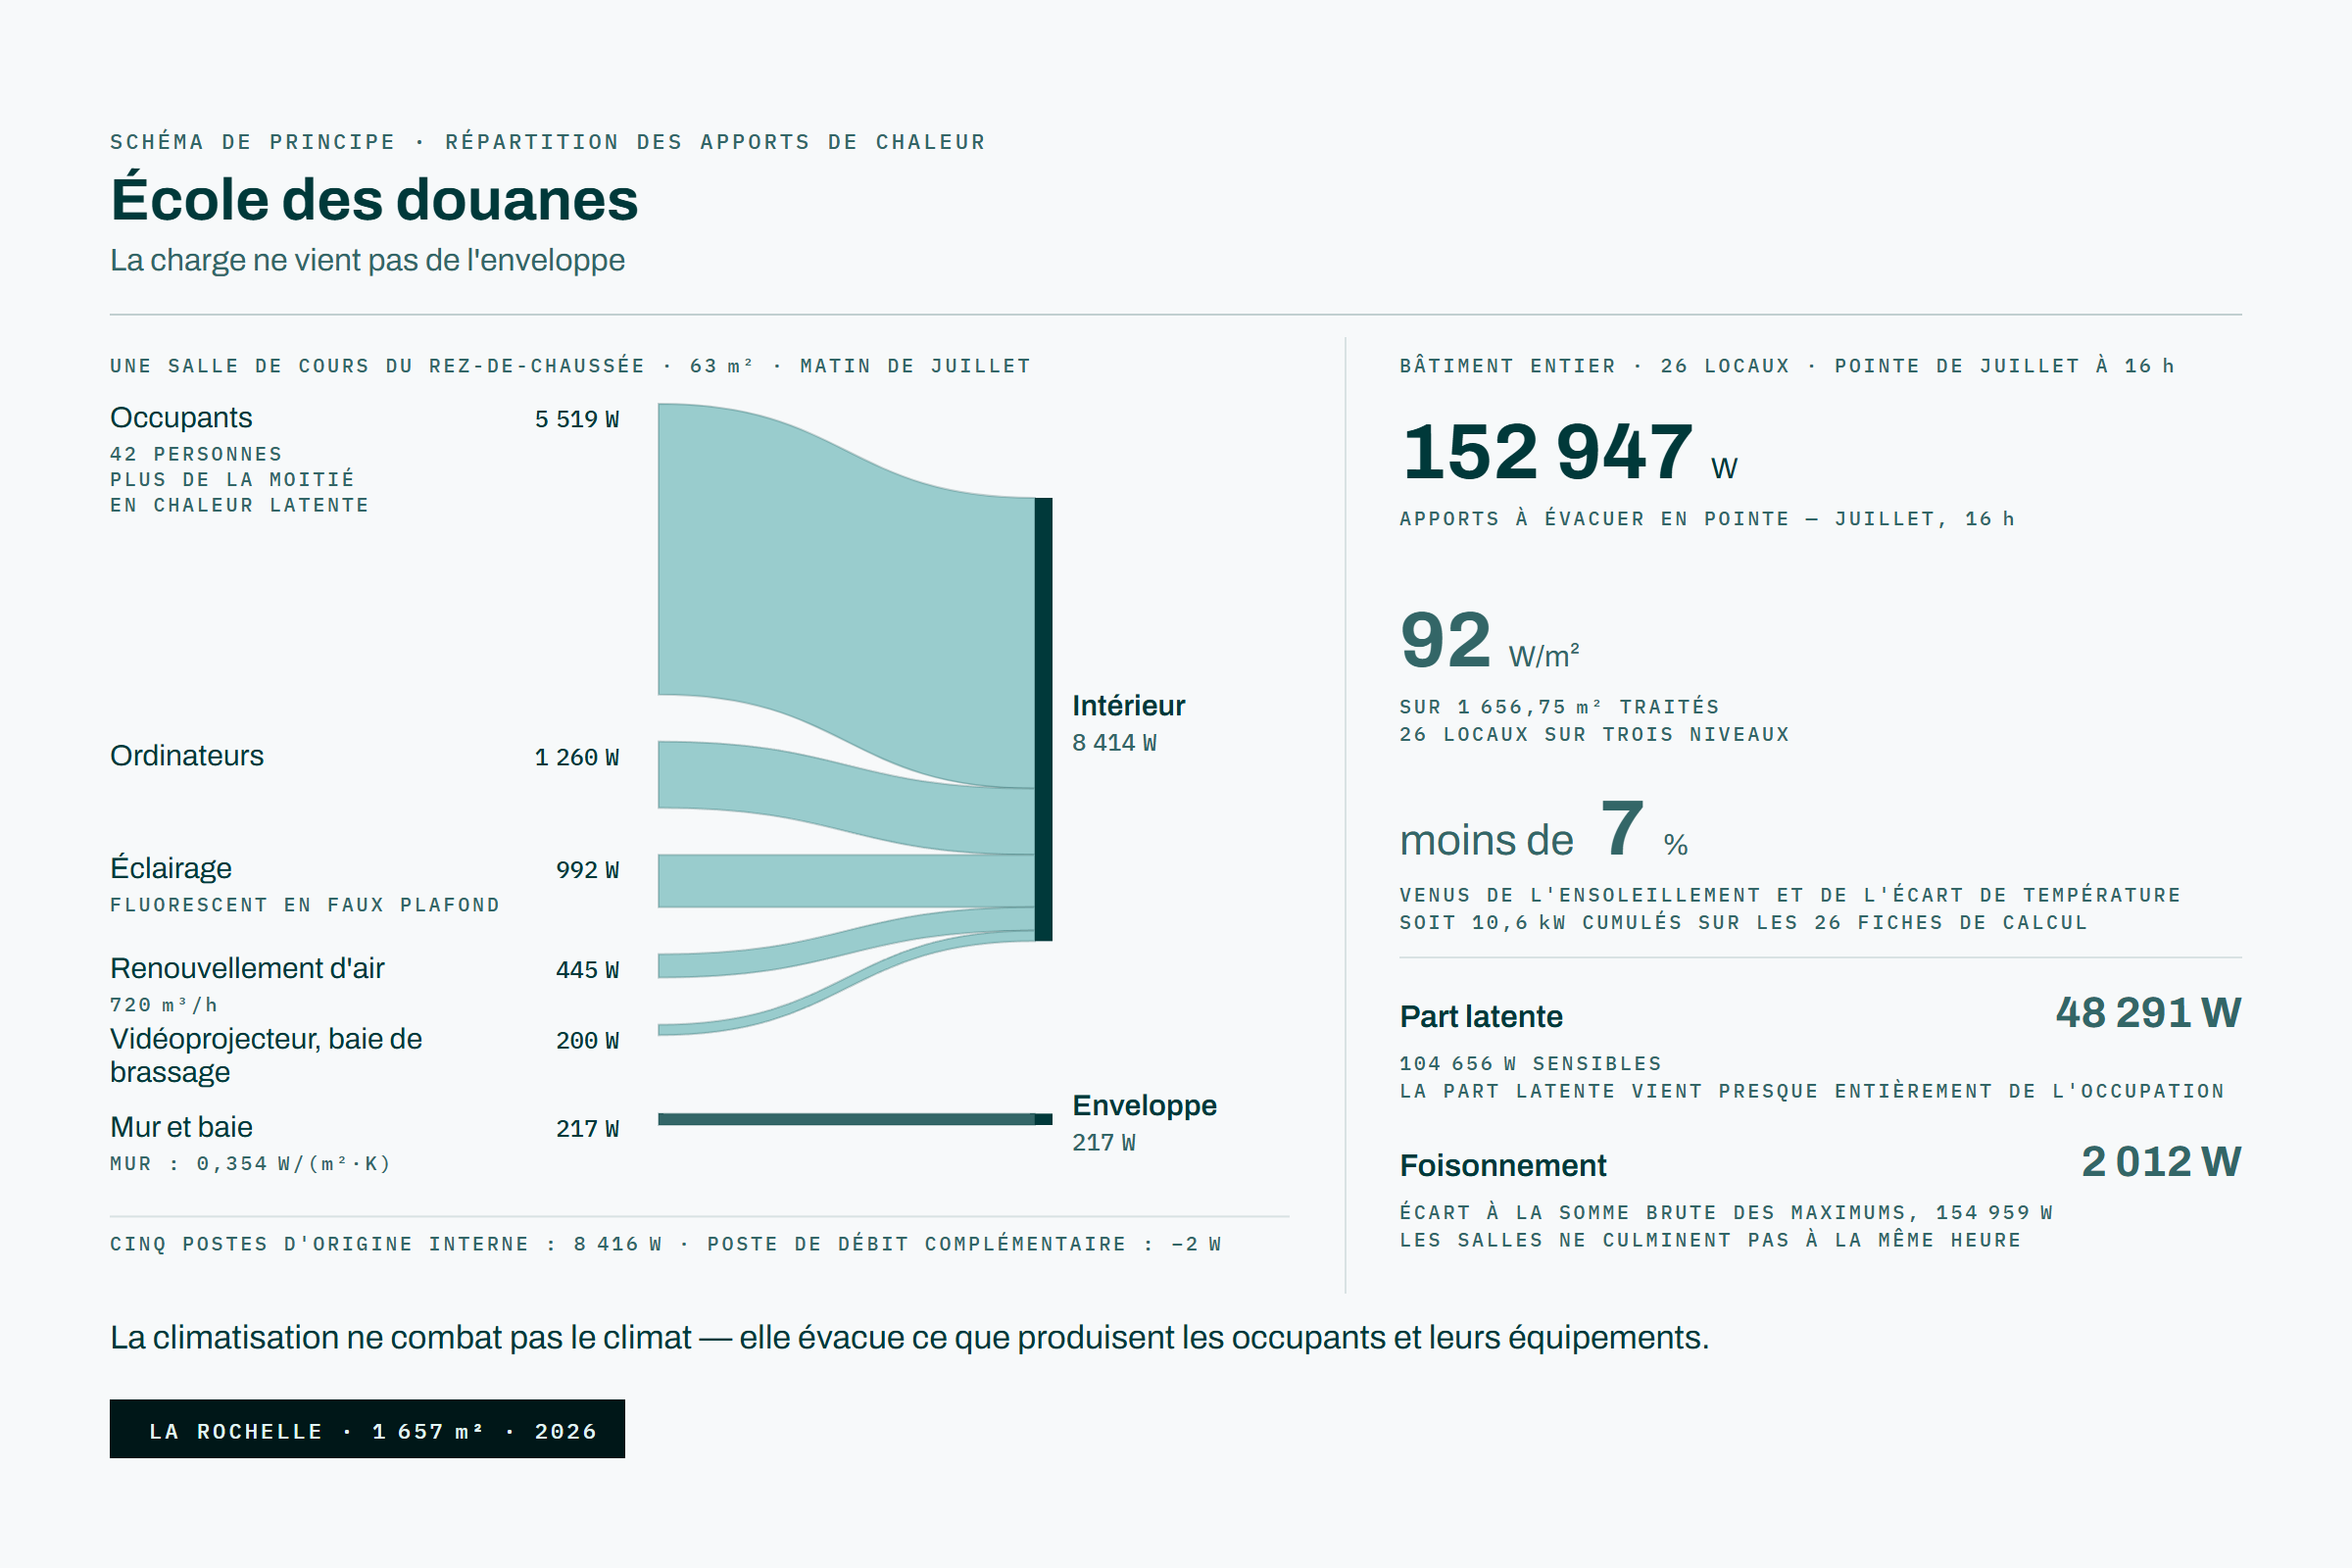
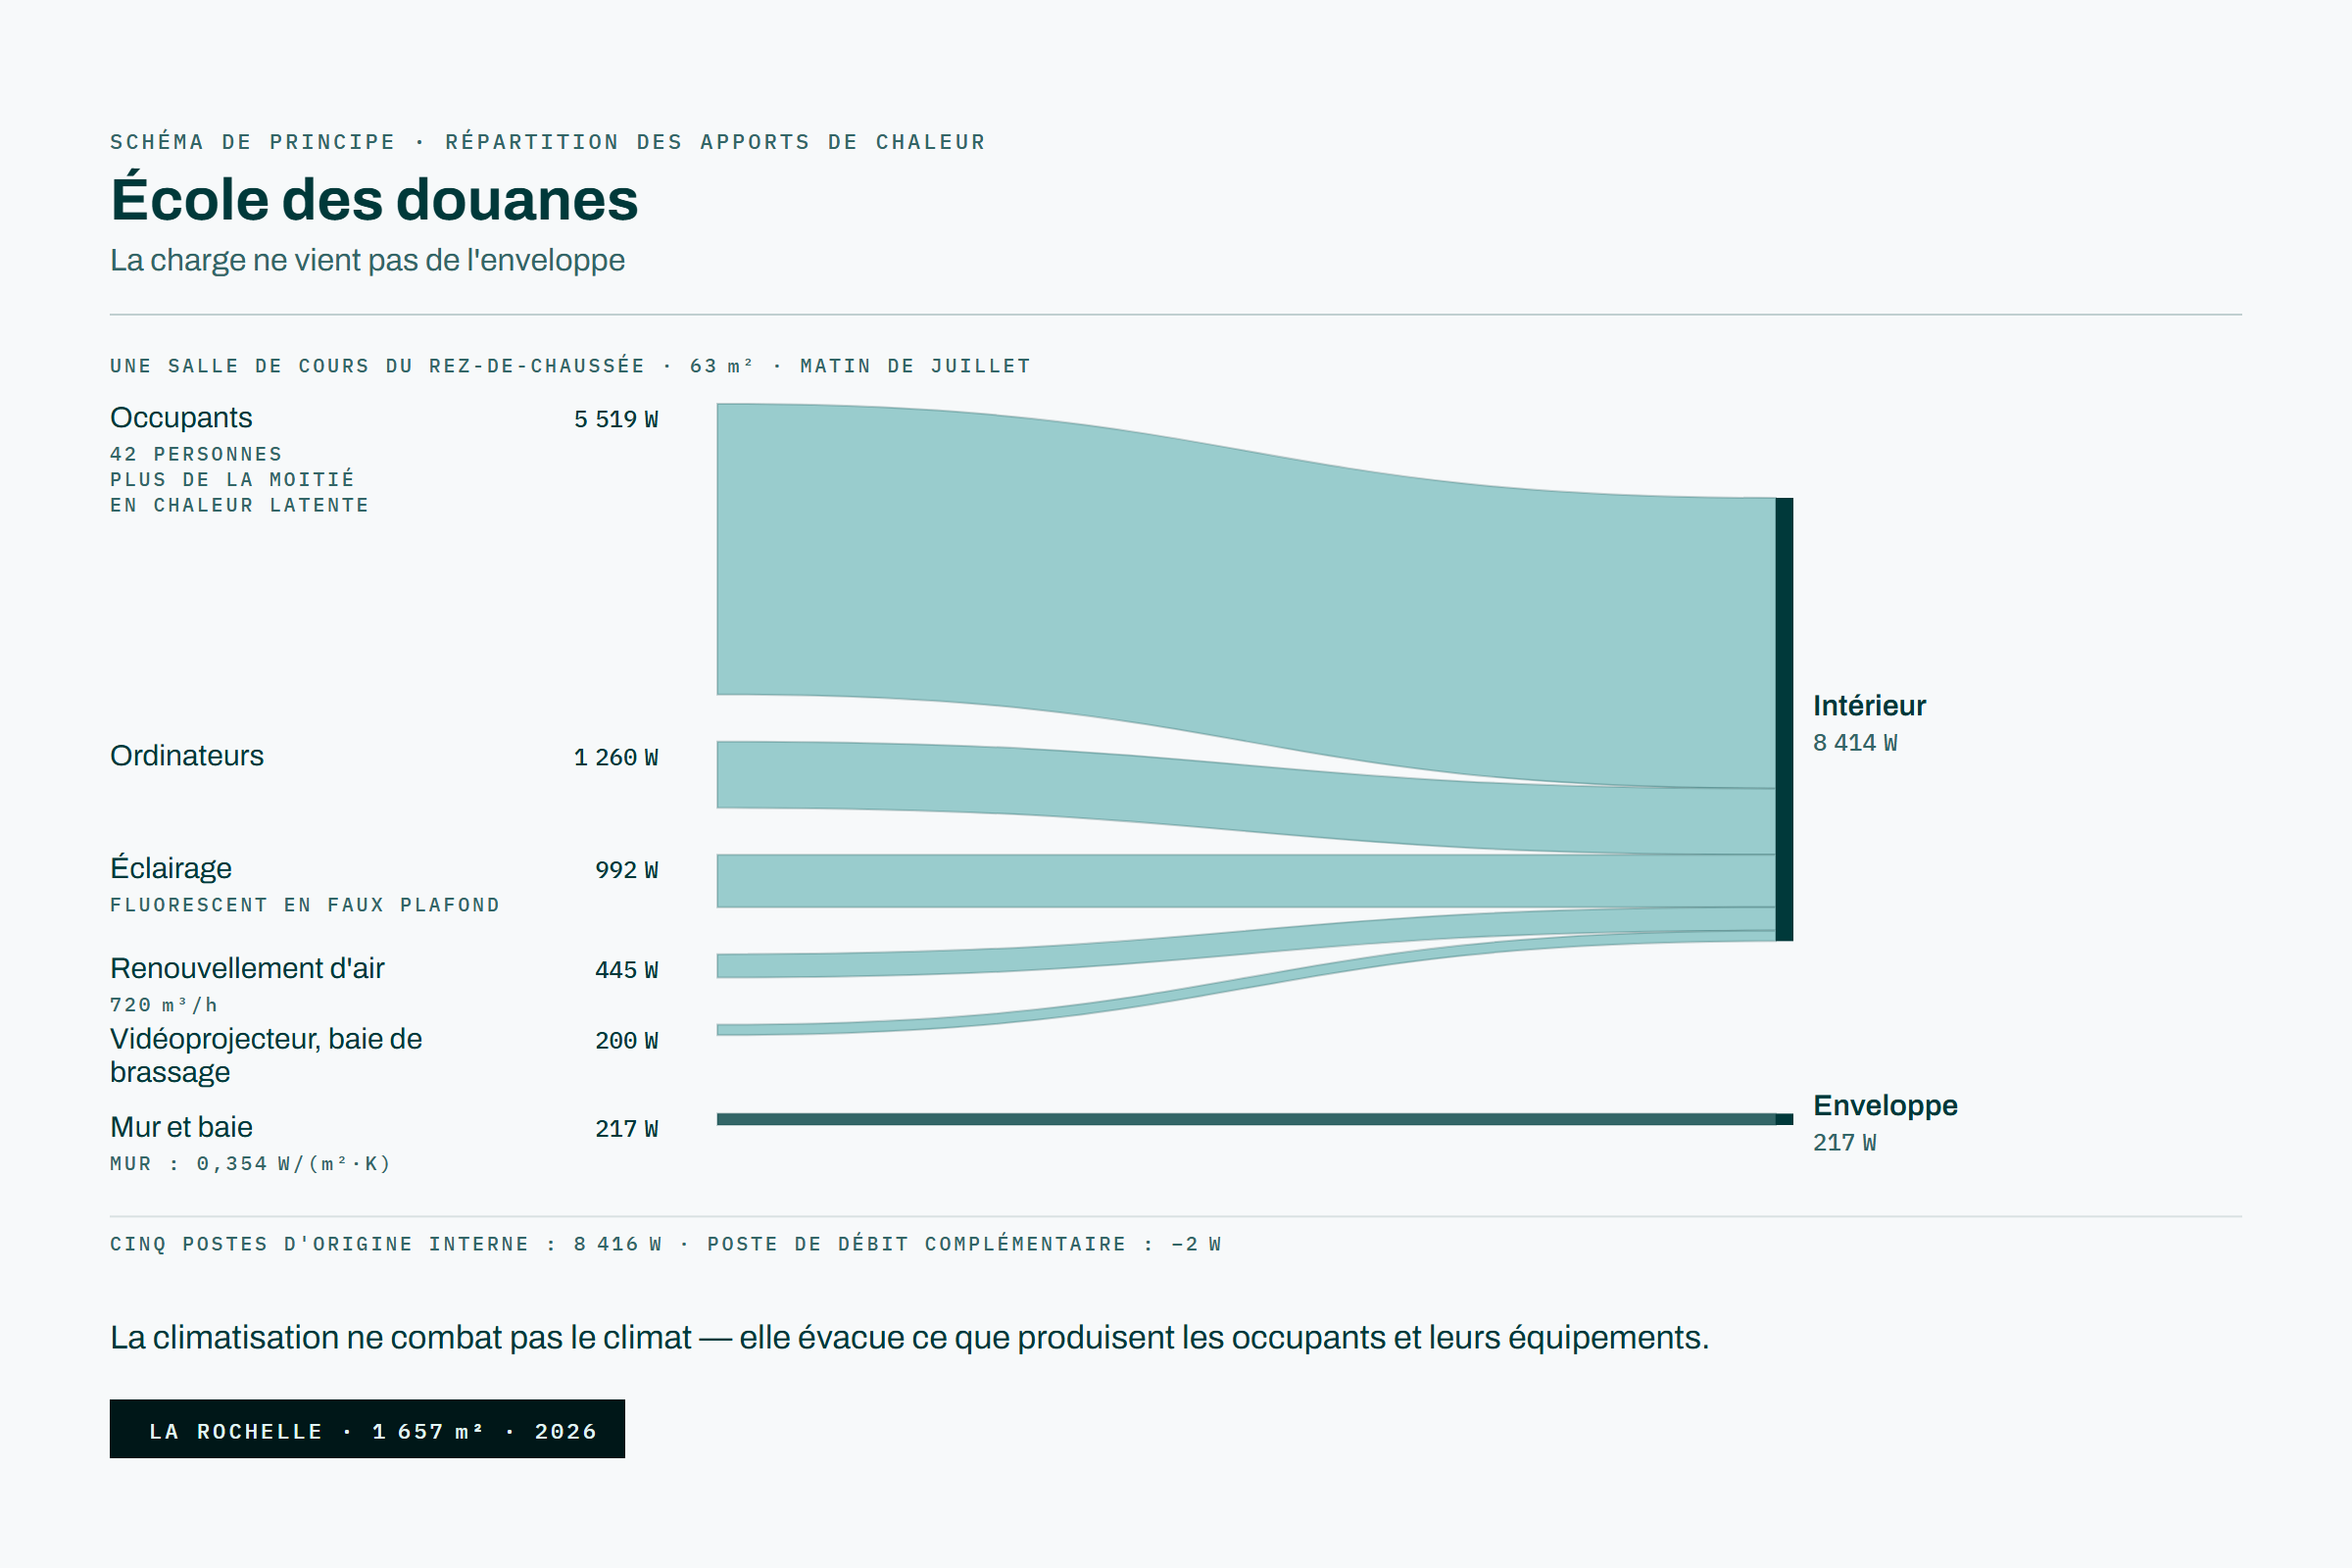
feat(references): réaligne la planche 01 sur la révision 4
La colonne de relevé de l'École des douanes répétait la fiche — le
défaut exact que FT2E a refusé sur la planche 02. Elle est retirée ;
le Sankey, qui est le mécanisme, s'étend à la largeur utile entière
(flux de 366 à 906 px, nœuds étiquetés jusqu'à 1144). L'extraction est
amendée : relevé vide, arbitrages sur les deux périmètres et les deux
moments révisés — la planche ne porte plus que la salle de cours, les
chiffres du bâtiment restent à la fiche. Les deux planches publiées
appliquent désormais le principe « la planche est un dessin ».

diff --git a/scripts/planches/sankey-energie.py b/scripts/planches/sankey-energie.py
@@ -35,17 +35,15 @@ from pathlib import Path
 NN = " "   # espace fine insécable — texte courant et mono
 INS = " "  # espace insécable normale — relevés en grand corps (cf. § Mesures)
 
-# ── Gabarit (protocole rév. 2) ────────────────────────────────────────────────
+# ── Gabarit (protocole rév. 4) ────────────────────────────────────────────────
+# La révision 4 supprime la partition 7/5 et la colonne de relevé : la planche
+# schématise la solution — le flux occupe la largeur utile entière, et les
+# chiffres que la fiche porte déjà ne montent pas sur le dessin.
 W, H = 1200, 800
 MARGE = 56
 MODULE = 28
 UTILE = W - 2 * MARGE                      # 1088
-GOUTTIERE = 56
-DESSIN_W = round((UTILE - GOUTTIERE) * 7 / 12)   # 602
-RELEVE_W = UTILE - GOUTTIERE - DESSIN_W          # 430
-DESSIN_X0, DESSIN_X1 = MARGE, MARGE + DESSIN_W
-RELEVE_X0, RELEVE_X1 = DESSIN_X1 + GOUTTIERE, W - MARGE
-SEPARATEUR_X = DESSIN_X1 + GOUTTIERE / 2
+DESSIN_X0 = MARGE
 
 # ── Gabarit de la VIGNETTE (protocole rév. 2.2) ───────────────────────────────
 # Une vignette n'est pas un recadrage de la planche : c'est une COMPOSITION
@@ -73,13 +71,13 @@ JETON = {
 SANS = '"Archivo Variable", Archivo, "Helvetica Neue", Arial, sans-serif'
 MONO = '"IBM Plex Mono", ui-monospace, monospace'
 
-# ── Colonnes de la zone de dessin ─────────────────────────────────────────────
+# ── Colonnes de la zone de schéma — pleine largeur depuis la révision 4 ──────
 LIB_X = DESSIN_X0                 # libellés + détails
-VAL_X = DESSIN_X0 + 260           # valeurs mono, alignées à droite
-BANDE_X0 = DESSIN_X0 + 280        # départ des bandes
-BANDE_X1 = DESSIN_X0 + 472        # arrivée des bandes
+VAL_X = DESSIN_X0 + 280           # valeurs mono, alignées à droite
+BANDE_X0 = DESSIN_X0 + 310        # départ des bandes (366)
+BANDE_X1 = DESSIN_X0 + 850        # arrivée des bandes (906) — le flux porte la planche
 NOEUD_W = 9
-NOEUD_LIB_X = BANDE_X1 + NOEUD_W + 10
+NOEUD_LIB_X = BANDE_X1 + NOEUD_W + 10   # 925 — étiquettes de nœud jusqu'à 1144
 
 # ── Rythme vertical ───────────────────────────────────────────────────────────
 Y_SURTITRE = 76
@@ -233,12 +231,11 @@ def composer(donnees, slug):
             "pivot", wdth=100))
     A(rect(MARGE, Y_FILET_TITRE, UTILE, 1, "filet-1"))
 
-    # ── En-têtes de périmètre — ils empêchent la planche de mentir ───────────
+    # ── En-tête de périmètre — il empêche la planche de mentir ───────────────
+    # (Depuis la révision 4, la planche ne porte qu'un périmètre : celui du
+    # schéma. Le relevé du bâtiment et son en-tête ont quitté le dessin.)
     A(texte(DESSIN_X0, Y_ENTETE, sk["entete"], "mono", 10, 500,
             "pivot", tracking=10 * 0.14))
-    A(texte(RELEVE_X0, Y_ENTETE, donnees["releve_entete"], "mono", 10, 500,
-            "pivot", tracking=10 * 0.14))
-    A(rect(SEPARATEUR_X, Y_FILET_TITRE + 12, 1, 488, "filet-3"))
 
     # ── Bandes ───────────────────────────────────────────────────────────────
     curseur = {c: n["y0"] for c, n in noeuds.items()}
@@ -281,38 +278,16 @@ def composer(donnees, slug):
         A(texte(NOEUD_LIB_X, yl + 16, f'{nd["n"]["valeur_affichee"]}{NN}{sk["unite"]}',
                 "mono", 12, 500, "pivot", tabulaire=True))
 
-    # ── Note de pied de la zone de dessin ────────────────────────────────────
+    # ── Note de pied de la zone de schéma ────────────────────────────────────
     y_note = max(bas_bandes, bas_libelles) + 36
-    A(rect(DESSIN_X0, y_note - 18, DESSIN_W, 1, "filet-3"))
+    A(rect(DESSIN_X0, y_note - 18, UTILE, 1, "filet-3"))
     A(texte(DESSIN_X0, y_note, sk["note_pied"], "mono", 10, 500,
             "pivot", tracking=10 * 0.14))
 
-    # ── Colonne de relevé ────────────────────────────────────────────────────
-    y = 244.0
-    for i, r in enumerate(donnees["releve"]):
-        couleur = "encre" if i == 0 else "pivot"
-        x = RELEVE_X0
-        if r.get("prefixe"):
-            A(texte(x, y, r["prefixe"], "sans", 22, 400, "pivot", wdth=100))
-            x += mesurer(r["prefixe"], 22, "sans-400") + 14
-        A(texte(x, y, r["valeur"], "sans", 40, 700, couleur, wdth=118,
-                tabulaire=True))
-        x += mesurer(r["valeur"], 40, "sans-700") + 8
-        A(texte(x, y, r["unite"], "sans", 15, 400, couleur, wdth=100))
-        for k, ligne in enumerate(r["legende"]):
-            A(texte(RELEVE_X0, y + 24 + k * 14, ligne, "mono", 10, 500,
-                    "pivot", tracking=10 * 0.14))
-        y += 96
-    A(rect(RELEVE_X0, y - 44, RELEVE_W, 1, "filet-3"))
-    y -= 8
-    for r in donnees["releve_secondaire"]:
-        A(texte(RELEVE_X0, y, r["intitule"], "sans", 16, 600, "encre", wdth=112))
-        A(texte(RELEVE_X1, y, r["valeur"], "sans", 22, 700, "pivot",
-                wdth=118, ancre="end", tabulaire=True))
-        for k, ligne in enumerate(r["appui"]):
-            A(texte(RELEVE_X0, y + 22 + k * 14, ligne, "mono", 10, 500,
-                    "pivot", tracking=10 * 0.14))
-        y += 76
+    # La colonne de relevé de la révision 3 a été SUPPRIMÉE (révision 4) : les
+    # chiffres du bâtiment vivent dans la fiche, pas sur la planche. Si une
+    # planche future relève de l'exception chiffrée du Temps 2, ce module sera
+    # révisé à ce moment-là — pas de code mort en attendant.
 
     # ── Phrase de principe, pleine largeur ───────────────────────────────────
     A(texte(MARGE, 688, donnees["phrase_principe"], "sans", 17, 400,
@@ -320,7 +295,7 @@ def composer(donnees, slug):
 
     # ── Cartouche — largeur AJUSTÉE au texte, jamais codée ───────────────────
     libelle = donnees["cartouche_legende"]
-    largeur = min(DESSIN_W,
+    largeur = min(600,
                   round(mesurer(libelle, 11, "mono", tracking=11 * 0.14) + 40))
     A(rect(MARGE, Y_CARTOUCHE, largeur, H_CARTOUCHE, "profond"))
     A(texte(MARGE + 20, Y_CARTOUCHE + 20, libelle, "mono", 11, 500, "voile",
@@ -330,8 +305,9 @@ def composer(donnees, slug):
 
     controles = {
         "gabarit": f"{W} x {H} — rapport {W/H:.4f} (3:2 exact)",
-        "partition": f"zone de dessin {DESSIN_W} px / colonne de relevé {RELEVE_W} px "
-                     f"= {DESSIN_W/RELEVE_W:.4f} — partition 7/5 de la charte",
+        "gabarit_schema": f"flux de {BANDE_X0} à {BANDE_X1} px, nœuds étiquetés "
+                          f"jusqu'à {W - MARGE} px — schéma pleine largeur, colonne "
+                          f"de relevé supprimée (révision 4)",
         "bouclage_bandes": " + ".join(str(s["valeur"]) for s in sources)
                            + f" = {total}{NN}{sk['unite']} ; "
                            f"hauteur totale {sum(p['h'] for p in poses):.2f} px "

diff --git a/docs/superpowers/plans/2026-08-12-chantier-planches-references.md b/docs/superpowers/plans/2026-08-12-chantier-planches-references.md
@@ -109,8 +109,6 @@ Archétypes déjà employés, à ne pas répéter sans raison explicite :
 Exemple achevé, à consulter comme référence de niveau attendu :
     public/images/projets/abbaye-sablonceaux-ssi/planche.json
     scripts/planches/zonage-ssi.py
-    (la planche 01, École des douanes, garde une colonne de relevé antérieure à la
-    révision 4 — ne pas l'imiter sur ce point)
 
 CE QUE TU REMETS — un dossier <slug>/ contenant les quatre fichiers du protocole,
 puis le prompt de lancement de la session suivante (une fiche = une session).
@@ -207,9 +205,11 @@ Conséquences, appliquées à la planche 02 et opposables aux suivantes :
 - **Le relevé chiffré ne monte plus sur la planche.** Le champ `releve` du JSON peut
   être vide ; `PlancheReference.astro` ne rend la section du repli mobile que s'il est
   peuplé. Les classements ERP, essais et durées restent au texte de la fiche.
-- **À répercuter** : le protocole (révision 4 à écrire — le gabarit prescrit encore la
-  partition 7/5 avec colonne de relevé) et la **planche 01** (sa colonne de relevé
-  répète la fiche de l'École des douanes — réalignement à trancher avec FT2E).
+- **Répercuté le 2026-08-13** : le protocole est porté en **révision 4** (principe en
+  tête, gabarit pleine largeur, groupe « Dessin » au contrôle, prompt de session
+  suivante obligatoire — une fiche = une session) et la **planche 01 est réalignée** :
+  colonne de relevé retirée, Sankey étendu à la largeur utile (flux de 366 à 906 px),
+  extraction amendée. Les deux planches publiées appliquent le principe.
 
 ---
 
